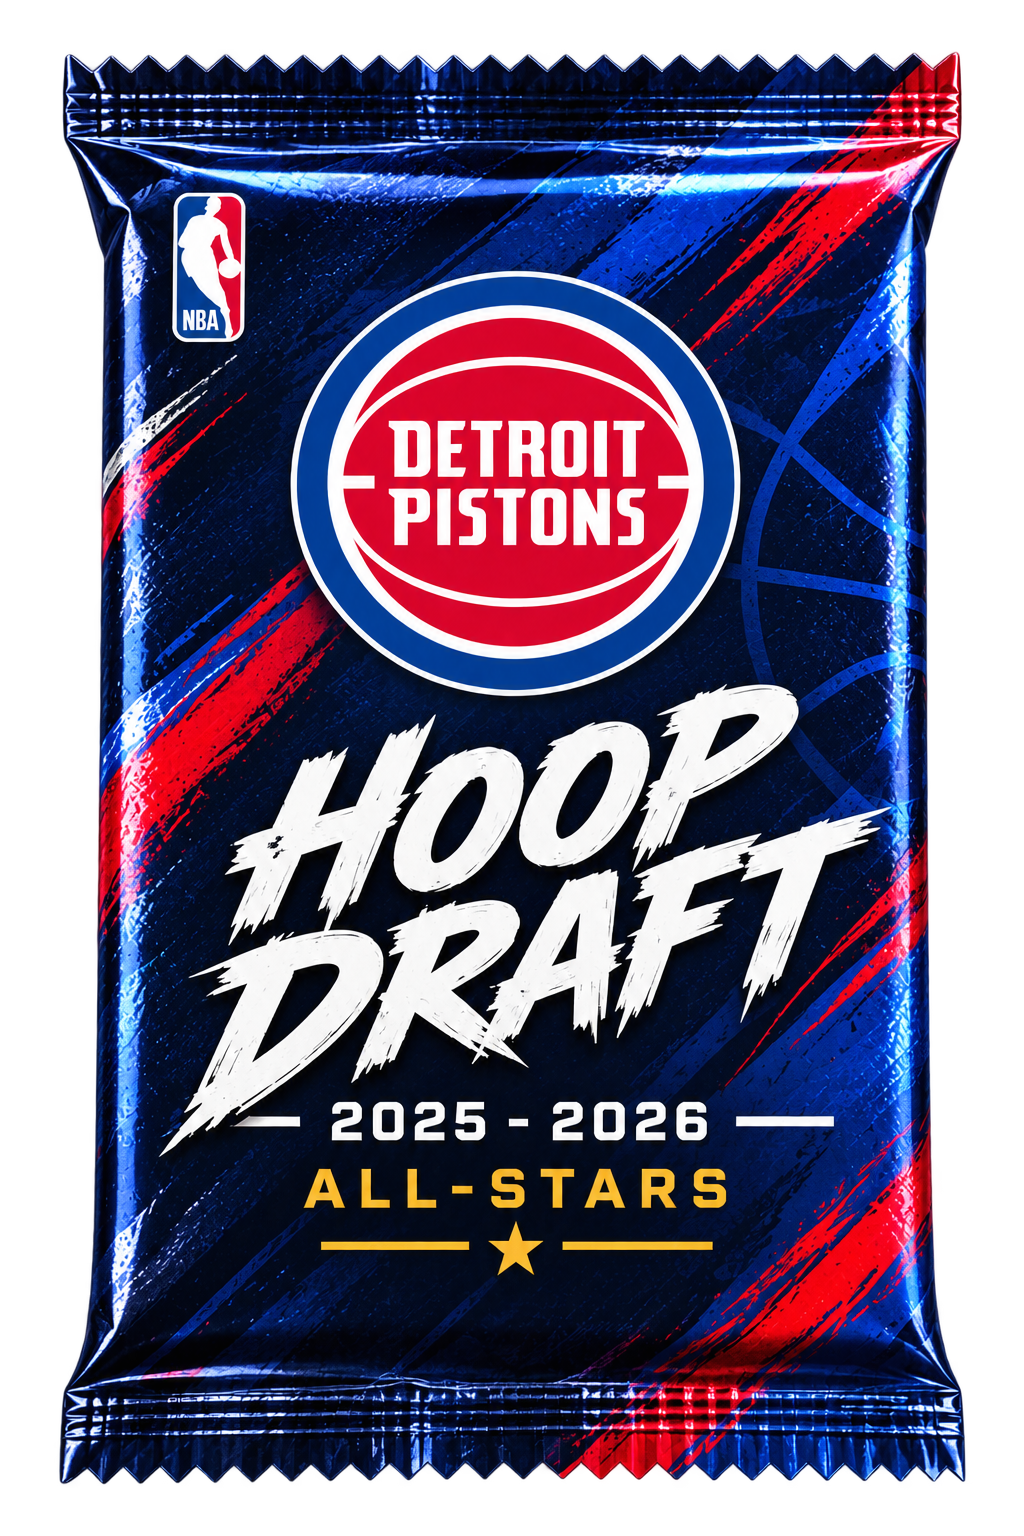
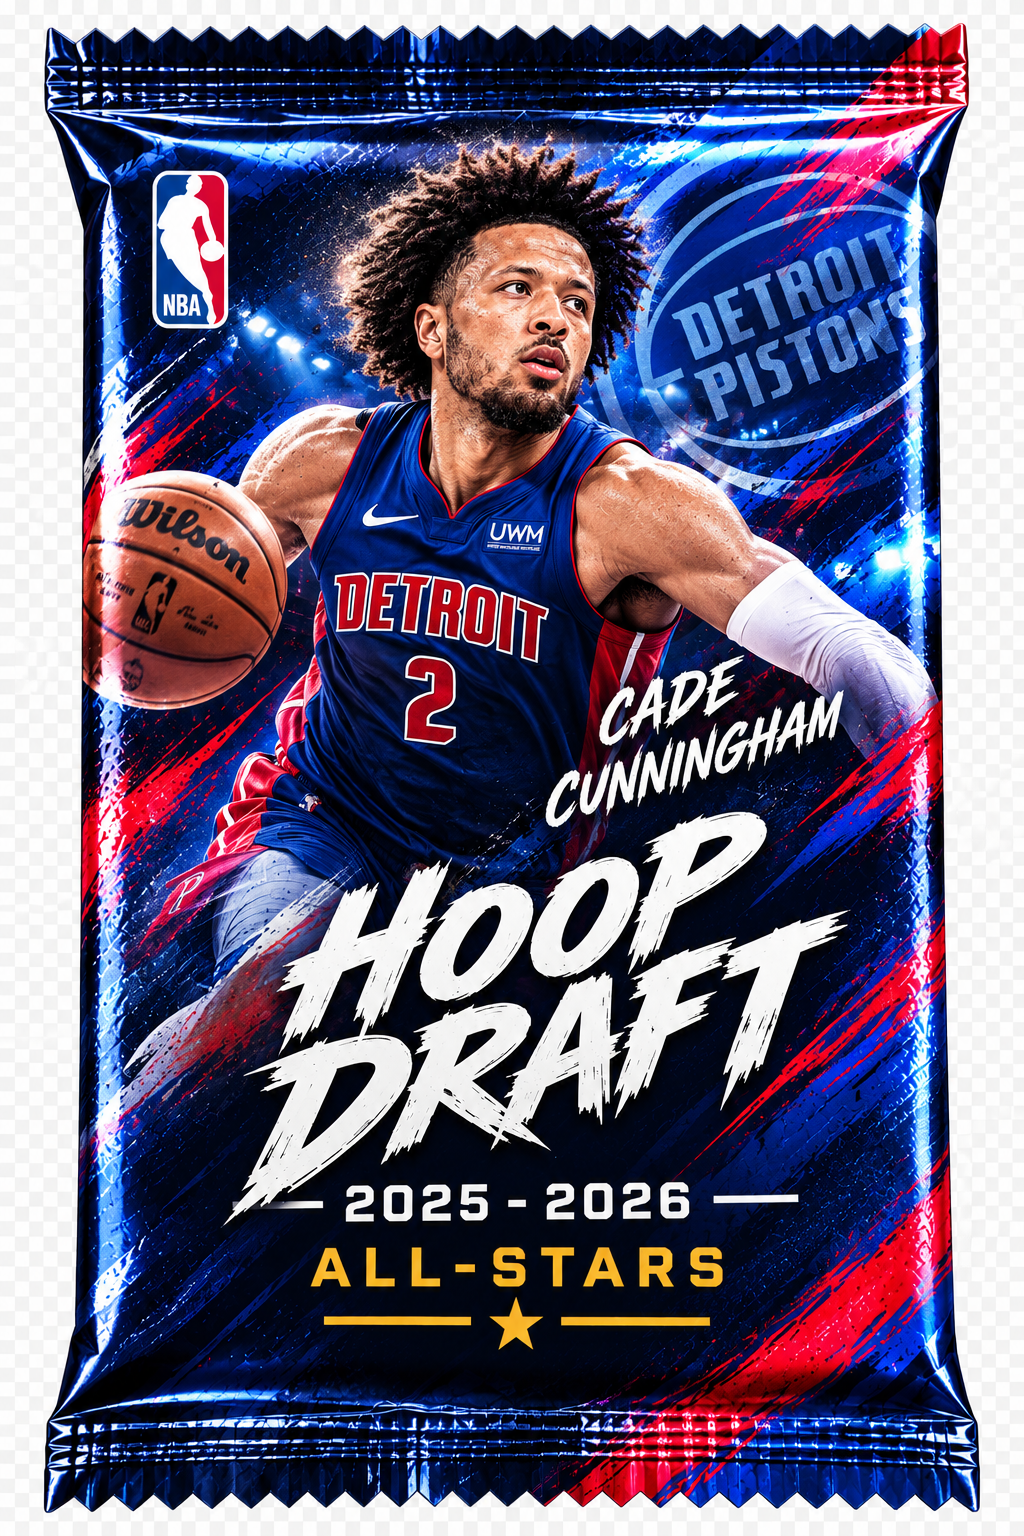
feat(pack-opener): replace grey card back with Hoop Draft artwork
Wires the new cardback.jpg into the unrevealed pack-reveal face (object-cover
inside the existing 5:7 card box, cropping the square source left/right with
no leftover letterboxing). Also updates the sealed-pack Image width/height to
match the newly-updated pack_2025_2026.png's actual 1024x1536 dimensions so
it isn't stretched to the old 448x624 aspect.

diff --git a/frontend/src/components/PackRevealCard.tsx b/frontend/src/components/PackRevealCard.tsx
@@ -1,5 +1,6 @@
 'use client';
 
+import Image from 'next/image';
 import type { DraftCard } from '@/engine/types';
 import { PlayerCard, PlayCard } from './PlayerCard';
 
@@ -15,11 +16,14 @@ export function PackRevealCard({ card, revealed }: { card: DraftCard; revealed: 
   if (!revealed) {
     return (
       <div className="relative aspect-[5/7] w-full overflow-hidden rounded-xl border border-line-strong bg-surface-sunken shadow-md">
-        <div className="absolute inset-2 rounded-lg border border-line-strong bg-surface-muted/70" />
-        <div className="absolute inset-0 flex flex-col items-center justify-center gap-2 text-ink-muted">
-          <span className="text-3xl" aria-hidden="true">◈</span>
-          <span className="text-xs font-black uppercase tracking-[0.24em]">Magic Ball</span>
-        </div>
+        <Image
+          src="/cardback.jpg"
+          alt=""
+          fill
+          sizes="(min-width: 640px) 25vw, 50vw"
+          className="object-cover"
+          priority
+        />
       </div>
     );
   }

diff --git a/frontend/src/components/PackOpener.tsx b/frontend/src/components/PackOpener.tsx
@@ -308,8 +308,8 @@ export function PackOpener({
               <Image
                 src="/pack_2025_2026.png"
                 alt="Magic Ball 2025-26 draft pack"
-                width={448}
-                height={624}
+                width={1024}
+                height={1536}
                 priority
                 className="w-full rounded-2xl"
               />
